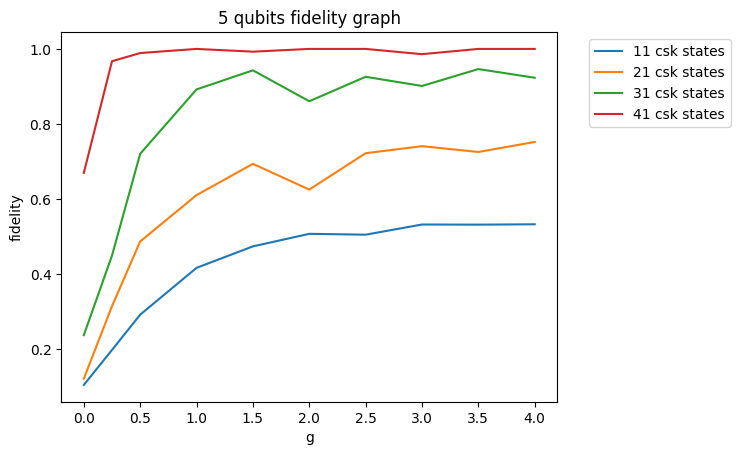
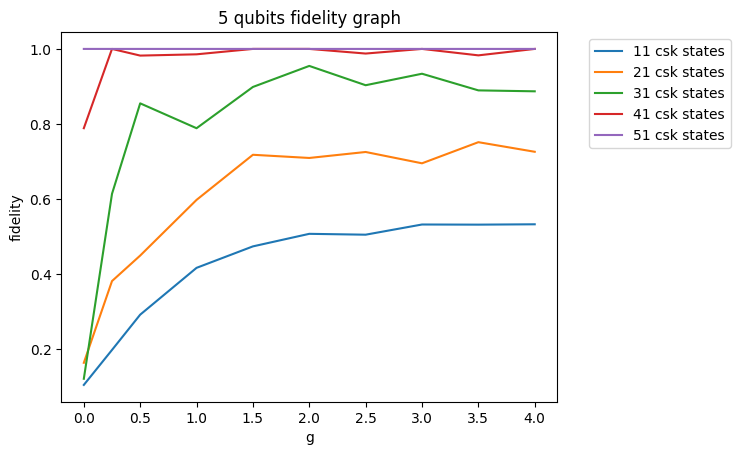
Jon

diff --git a/reproduce_fujiBoiGraphs.py b/reproduce_fujiBoiGraphs.py
@@ -260,9 +260,11 @@ def big_ass_loop(g, observable_obj_list):
             print("The fidelity is", fidelity)
             observable_expectation_results[k] = [np.trace(density_mat @ O_mat_eval) for O_mat_eval in O_matrices_evaluated]
             fidelity_results[k] = fidelity
-            if round(fidelity, 6) == 1:
-                print("breaking loop as fidelity = 1 already")
-                break
+            #if round(fidelity, 6) == 1:
+            #    print("breaking loop as fidelity = 1 already")
+            #    #raise(RuntimeError("Fidelity = 1!"))
+            #    break
+    #print('JON: Got %s results'%len(fidelity_results))
     return (observable_expectation_results, theoretical_expectation_values, fidelity_results)
 
 #%% the main chunk
@@ -301,6 +303,7 @@ else:
     # observable_expectation_results, theoretical_expectation_values, fidelity_results = big_ass_loop(g, observables_list)
 
     g_vals = [0,0.25, 0.5, 1.0, 1.5, 2.0, 2.5, 3.0, 3.5, 4.0]
+    #g_vals = [0.5]
     results = {g:big_ass_loop(g, observables_list) for g in g_vals}
     theoretical_curves = plot_theoretical_expectation_curves(min(g_vals), max(g_vals), observables_list)
 

diff --git a/lindblad_testing_largersystems.py b/lindblad_testing_largersystems.py
@@ -9,15 +9,15 @@ import post_processing as pp
 import scipy as scp
 import scipy.io
 import plotting_package as plotp
-uptowhatK = 3
-num_qubits = 5
+uptowhatK = 1
+num_qubits = 1
 optimizer = 'feasibility_sdp'#'eigh' , 'eig', 'sdp','feasibility_sdp'
 eigh_inv_cond = 10**(-6)
 eig_inv_cond = 10**(-6)
 sdp_tolerance_bound = 0
-whatKs = [1,2,3]
+whatKs = [1]
 
-ansatzgenmethod = 'random_selection_new' #'random_selection_new',"no_processing", 'pruning'
+ansatzgenmethod = "no_processing" #'random_selection_new',"no_processing", 'pruning'
 numberofnewstatestoadd = 10 #Only will be used if 'random_selection_new' is selected
 
 degeneracy_tol = 5
@@ -26,7 +26,7 @@ runSDPonpython = True
 
 
 if optimizer == 'feasibility_sdp':
-    num_qubits = 5
+    num_qubits = 1
 
 #Generate initial state
 
